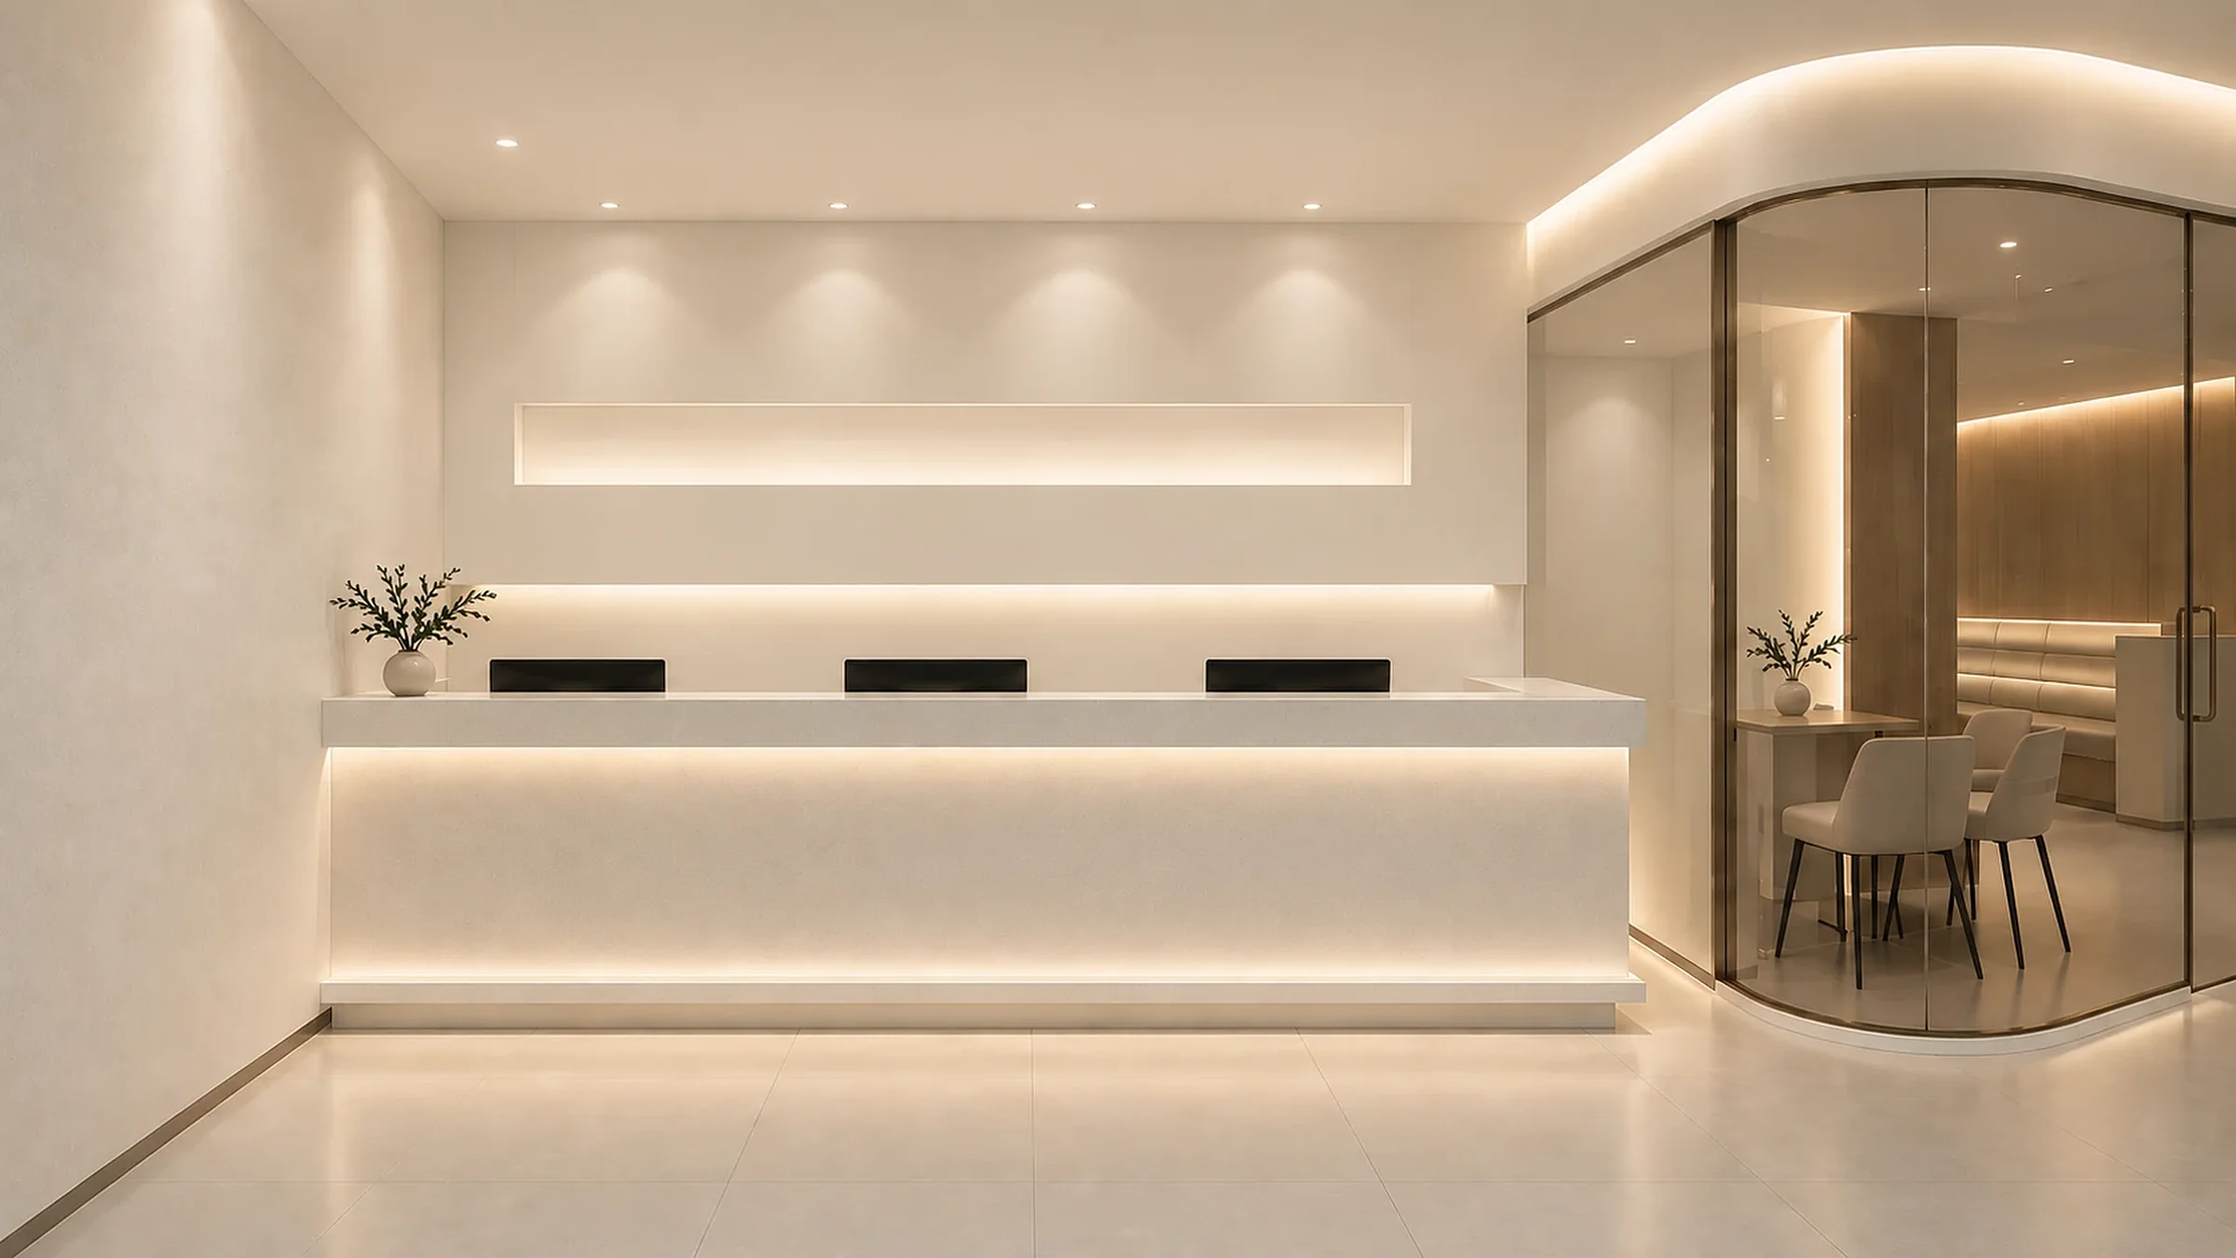
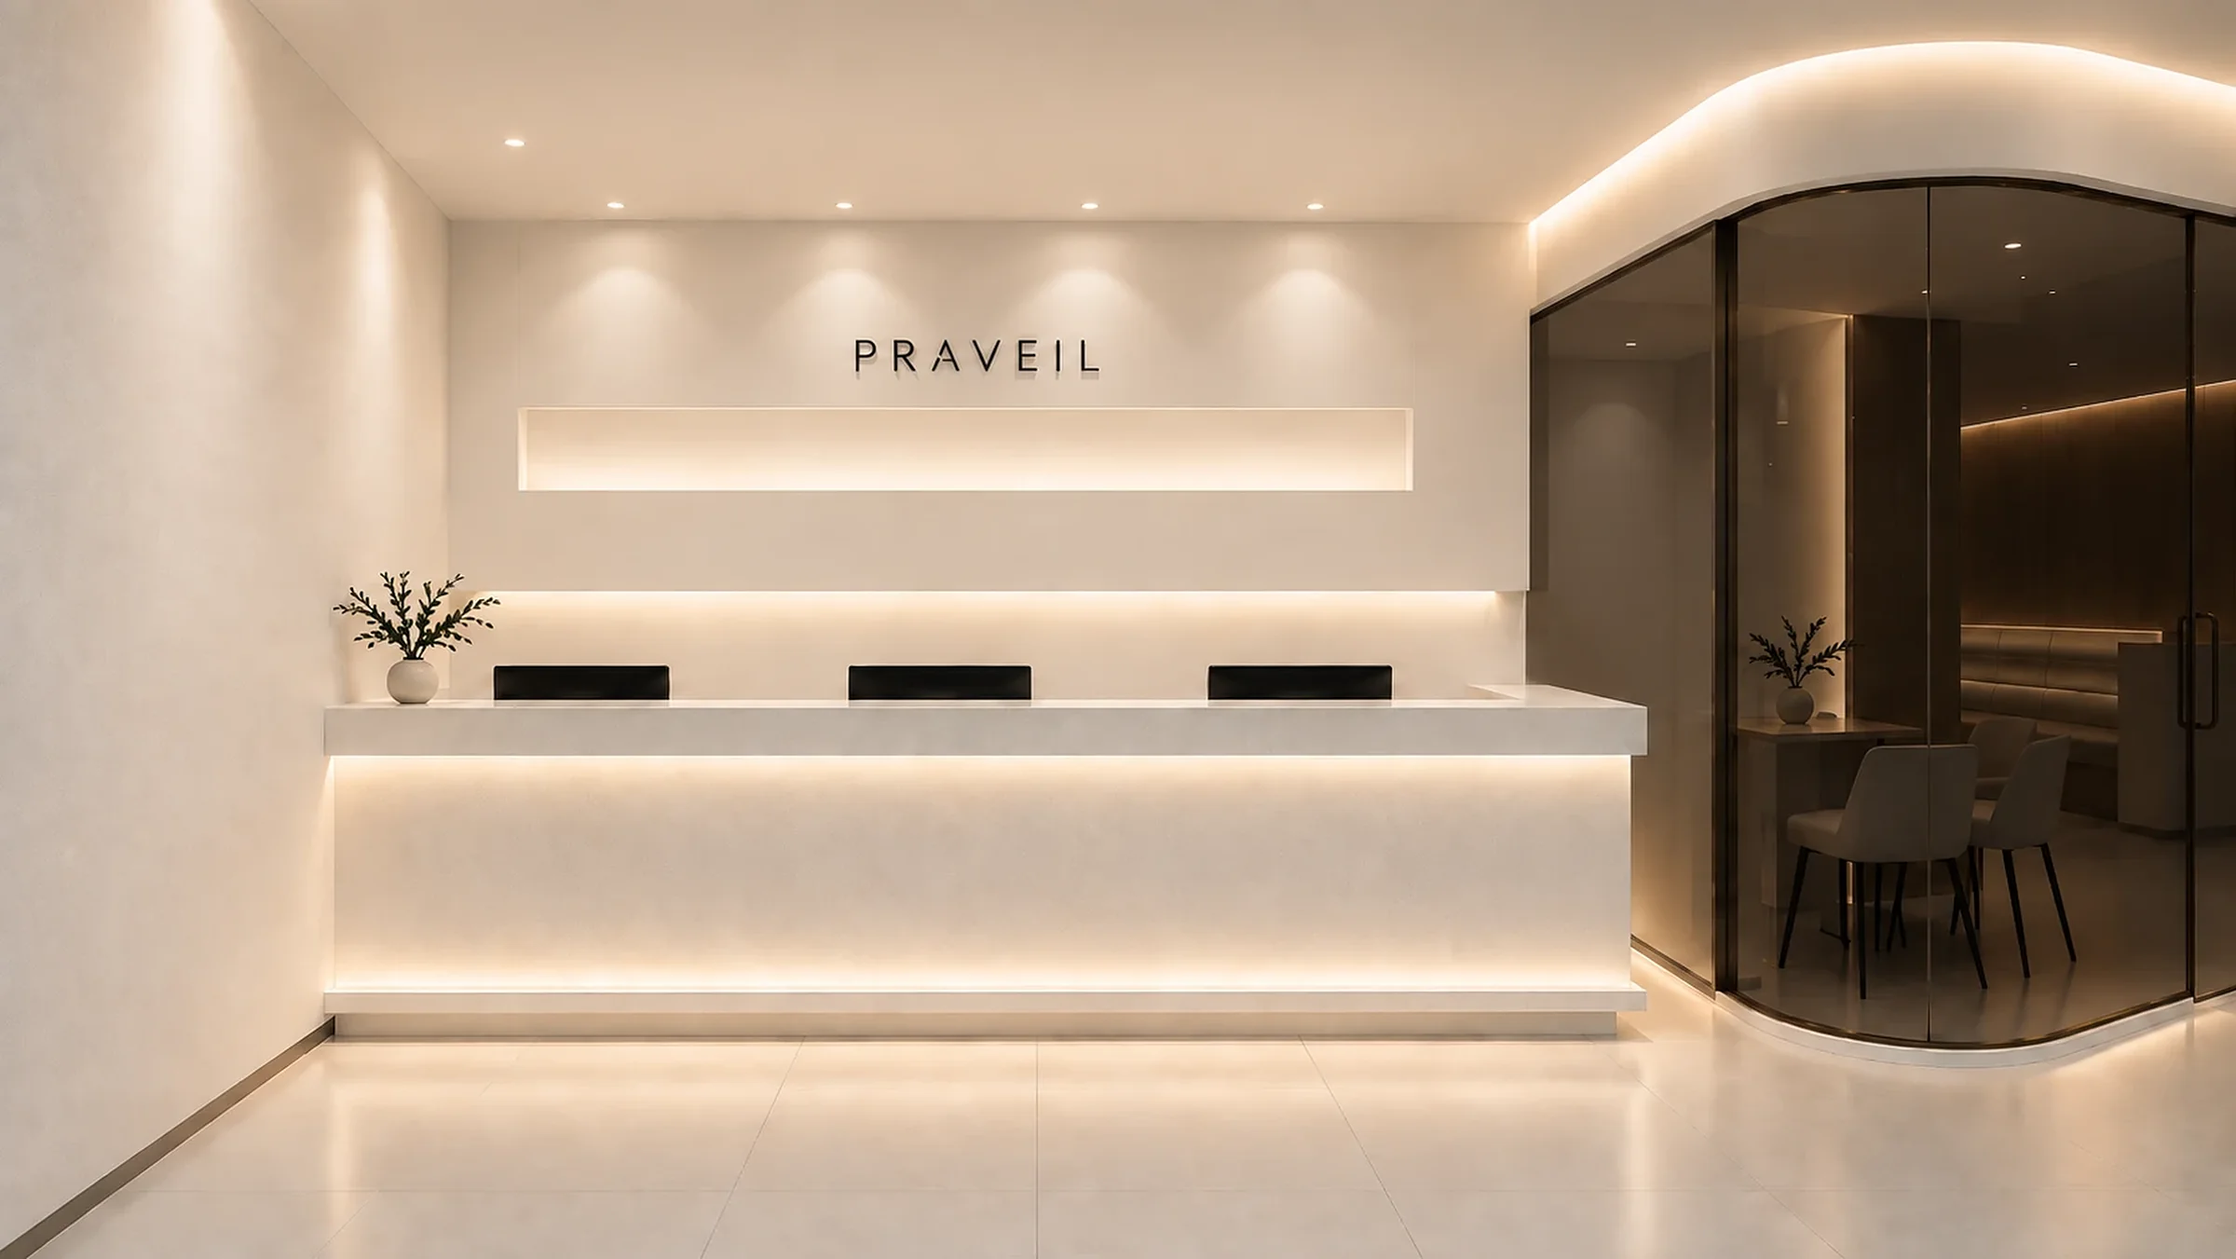
첫 화면: 새 로비 · 상담 사진, 유리 상담실 안으로 걸어 들어가는 전환
- 로비 사진(로고 포함)과 상담 사진을 새 보정본으로 교체, 로고 겹침 제거
- PC · 태블릿: 오른쪽 유리 상담실 쪽으로 몸을 돌려 다가가면, 유리 너머로 상담 장면이 보이고 창이 커지며 화면을 채움
- 모바일: 가운데 아치 문 모양 창이 열리며 상담 장면으로 들어감
- 흐림 + 겹치기 전환 삭제
- 화면 점검용으로 장면 맞춤을 끄는 스위치(window.__noHeroSnap) 추가

Claude-Session: https://claude.ai/code/session_01VQvQAAFwhwRPGFMMMYtpmE

diff --git a/src/components/main/MainHero.tsx b/src/components/main/MainHero.tsx
@@ -1,34 +1,37 @@
 "use client";
 
 import { useEffect, useRef, useState } from "react";
-import { logoShapes } from "@/components/Logo";
 import { gsap, ScrollTrigger, reducedMotion } from "@/lib/gsap";
 
-type Spot = { x: number; y: number; w?: number }; // 사진 속 자리 (사진 기준 비율)
 type Props = {
   eyebrow: string;
   scenes: { title: string[]; sub: string }[];
-  lobby: { src: string; logo: Spot & { w: number }; door: Spot; color: string };
+  lobby: {
+    src: string;
+    width: number;
+    height: number;
+    focusX: number;
+    glass: { x0: number; y0: number; x1: number; y1: number };
+  };
   consult: { src: string };
 };
 
-const LOGO = logoShapes.wordmark; // 영문 PRAVEIL 만
-const [, , VBW, VBH] = LOGO.viewBox.split(" ").map(Number);
-const IMG_W = 2400,
-  IMG_H = 1350; // 로비 사진 크기
 const PAD = 24; // 마우스 따라 움직일 여유 (사진 가장자리가 보이지 않게)
 const POINTS = [0, 0.6, 1]; // 장면이 멈추는 자리 (스크롤 진행 비율)
 
 // 첫 화면: 스크롤하는 만큼 장면이 넘어감 (멈추면 움직이던 방향의 다음 장면으로 맞춰짐)
-// ① 로비, 벽에 로고
-// ② 카메라가 오른쪽 유리 상담실로 다가가다가, 그 안의 원장 상담 장면으로 이어짐
+// ① 로비 (벽에 로고)
+// ② 카메라가 오른쪽 유리 상담실 쪽으로 몸을 돌려 다가감. 유리창 안에 원장 상담 장면이 먼저 보이고,
+//    다가갈수록 그 창이 커져 화면을 가득 채움 (상담실 안으로 들어가는 느낌)
 // ③ 사진이 둥근 카드로 작아지며 다음 섹션(흰 배경)으로
 export default function MainHero({ eyebrow, scenes, lobby, consult }: Props) {
   const rootRef = useRef<HTMLElement>(null);
   const stageRef = useRef<HTMLDivElement>(null);
   const lobbyRef = useRef<HTMLDivElement>(null);
-  const logoRef = useRef<HTMLDivElement>(null);
-  const consultRef = useRef<HTMLDivElement>(null);
+  const shadeRef = useRef<HTMLDivElement>(null);
+  const windowRef = useRef<HTMLDivElement>(null);
+  const consultImgRef = useRef<HTMLImageElement>(null);
+  const glareRef = useRef<HTMLDivElement>(null);
   const copyRefs = useRef<(HTMLDivElement | null)[]>([]);
   const eyebrowRef = useRef<HTMLParagraphElement>(null);
   const [scene, setScene] = useState(0);
@@ -61,33 +64,97 @@ export default function MainHero({ eyebrow, scenes, lobby, consult }: Props) {
 
   useEffect(() => {
     const root = rootRef.current;
-    const logo = logoRef.current;
-    if (!root || !logo) return;
+    const lobbyEl = lobbyRef.current;
+    const win = windowRef.current;
+    if (!root || !lobbyEl || !win) return;
 
-    // 사진이 틀을 덮을 때(object-cover) 사진 속 자리가 틀의 어디인지 (틀은 화면보다 PAD 만큼 큼)
-    const spot = (s: Spot) => {
+    // 사진 틀(화면보다 PAD 만큼 큼) 기준으로, 사진 속 비율 좌표 → 틀 좌표
+    const frame = () => {
       const bw = root.clientWidth + PAD * 2,
         bh = root.clientHeight + PAD * 2;
-      const k = Math.max(bw / IMG_W, bh / IMG_H);
-      const dw = IMG_W * k,
-        dh = IMG_H * k;
-      const ox = (bw - dw) * lobby.logo.x,
+      const k = Math.max(bw / lobby.width, bh / lobby.height);
+      const dw = lobby.width * k,
+        dh = lobby.height * k;
+      const ox = (bw - dw) * lobby.focusX,
         oy = (bh - dh) / 2;
-      return { x: ox + dw * s.x, y: oy + dh * s.y, w: dw * (s.w ?? 0) };
+      const g = lobby.glass;
+      const rect = {
+        x0: ox + dw * g.x0,
+        y0: oy + dh * g.y0,
+        x1: ox + dw * g.x1,
+        y1: oy + dh * g.y1,
+      };
+      // 좁은 화면(모바일)에서는 유리 상담실이 화면 밖이라, 가운데에 문 모양 창을 두고 열림 (옆으로 돌지 않음)
+      const narrow = rect.x0 > bw * 0.9;
+      return {
+        bw,
+        bh,
+        pan: !narrow,
+        rect: narrow
+          ? { x0: bw * 0.26, y0: bh * 0.3, x1: bw * 0.74, y1: bh * 0.7 }
+          : rect,
+      };
     };
-    // 로고는 로비 사진 벽에 붙어 사진과 함께 움직임
-    const placeLogo = () => {
-      const p = spot(lobby.logo);
-      const h = (p.w * VBH) / VBW;
-      gsap.set(logo, { x: p.x - p.w / 2, y: p.y - h / 2, width: p.w });
+
+    // t(0~1)에 따라: 유리창 가운데를 화면 가운데로 돌리며(pan) 확대(s). 창 밖 로비는 어두워지고, 창은 화면을 채울 때까지 커짐
+    let F = frame();
+    const apply = (t: number) => {
+      const { bw, bh, rect, pan } = F;
+      const ox = (rect.x0 + rect.x1) / 2,
+        oy = (rect.y0 + rect.y1) / 2; // 확대 기준 = 유리창 가운데
+      const cx = bw / 2,
+        cy = bh / 2;
+      // 창이 화면을 다 덮는 배율
+      const sEnd =
+        Math.max(bw / (rect.x1 - rect.x0), bh / (rect.y1 - rect.y0)) * 1.08;
+      const e = t < 0.5 ? 2 * t * t : 1 - Math.pow(-2 * t + 2, 2) / 2;
+      const s = 1 + (sEnd - 1) * Math.pow(t, 1.6);
+      const px = pan ? (cx - ox) * e : 0,
+        py = pan ? (cy - oy) * e : 0;
+      lobbyEl.style.transformOrigin = `${ox}px ${oy}px`;
+      lobbyEl.style.transform = `translate(${px}px, ${py}px) scale(${s})`;
+      const map = (x: number, y: number) => [
+        ox + px + (x - ox) * s,
+        oy + py + (y - oy) * s,
+      ];
+      const [x0, y0] = map(rect.x0, rect.y0);
+      const [x1, y1] = map(rect.x1, rect.y1);
+      // 유리창 = 상담실. 창 크기 그대로 상담 사진을 담아, 창이 커지는 만큼 방이 가까워짐 (끝나면 화면 가득)
+      const L = Math.max(0, x0),
+        T = Math.max(0, y0),
+        R = Math.min(bw, x1),
+        B = Math.min(bh, y1);
+      win.style.left = `${L}px`;
+      win.style.top = `${T}px`;
+      win.style.width = `${Math.max(0, R - L)}px`;
+      win.style.height = `${Math.max(0, B - T)}px`;
+      const rad = Math.max(0, 1 - t * 1.2) * 44 * Math.min(s, 2.5);
+      // 모바일은 아치 문 모양 (위쪽 양 모서리 둥글게)
+      win.style.borderRadius = pan
+        ? `${rad}px 0 0 0`
+        : `${(Math.max(0, 1 - t * 1.1) * (R - L)) / 2}px ${(Math.max(0, 1 - t * 1.1) * (R - L)) / 2}px 0 0`;
+      // 안쪽 사진은 창보다 조금 덜 커지게 (깊이감)
+      if (consultImgRef.current)
+        consultImgRef.current.style.transform = `scale(${1.15 - 0.15 * e})`;
+      // 로비 사진 속 유리 너머 공간과 겹치듯 서서히 드러나고, 유리 반사는 들어갈수록 사라짐
+      win.style.opacity = String(Math.min(1, t * 3.2));
+      if (glareRef.current)
+        glareRef.current.style.opacity = String(Math.max(0, 1 - t * 2.2));
+      if (shadeRef.current)
+        shadeRef.current.style.opacity = String(0.55 * Math.min(1, t * 2));
     };
-    placeLogo();
-    ScrollTrigger.addEventListener("refreshInit", placeLogo);
+    const state = { t: 0 };
+    apply(0);
+    const onRefresh = () => {
+      F = frame();
+      apply(state.t);
+    };
+    ScrollTrigger.addEventListener("refreshInit", onRefresh);
+    window.addEventListener("resize", onRefresh);
     if (reducedMotion()) {
-      window.addEventListener("resize", placeLogo);
       return () => {
-        window.removeEventListener("resize", placeLogo);
-        ScrollTrigger.removeEventListener("refreshInit", placeLogo);
+        ScrollTrigger.removeEventListener("refreshInit", onRefresh);
+        window.removeEventListener("resize", onRefresh);
       };
     }
 
@@ -97,7 +164,14 @@ export default function MainHero({ eyebrow, scenes, lobby, consult }: Props) {
       clearTimeout(timer);
       timer = window.setTimeout(() => {
         const p = st.progress;
-        if (!st.isActive || p <= 0 || p >= 1) return;
+        // window.__noHeroSnap: 화면 점검(캡처)용으로 장면 맞춤을 끌 때
+        if (
+          !st.isActive ||
+          p <= 0 ||
+          p >= 1 ||
+          (window as unknown as { __noHeroSnap?: boolean }).__noHeroSnap
+        )
+          return;
         const target =
           st.direction > 0
             ? POINTS.find((v) => v >= p - 0.002)!
@@ -111,7 +185,7 @@ export default function MainHero({ eyebrow, scenes, lobby, consult }: Props) {
         ).__lenis;
         if (lenis)
           lenis.scrollTo(y, {
-            duration: 1.2,
+            duration: 1.4,
             easing: (x: number) => 1 - Math.pow(1 - x, 3),
           });
         else window.scrollTo({ top: y, behavior: "smooth" });
@@ -127,7 +201,7 @@ export default function MainHero({ eyebrow, scenes, lobby, consult }: Props) {
             start: "top top",
             end: "+=220%",
             pin: true,
-            scrub: 0.7,
+            scrub: 0.8,
             invalidateOnRefresh: true,
             onUpdate: (st) => {
               setScene(st.progress < 0.3 ? 0 : 1);
@@ -135,38 +209,14 @@ export default function MainHero({ eyebrow, scenes, lobby, consult }: Props) {
             },
           },
         })
-        // ① → ② 유리 상담실 쪽으로 다가감
-        .fromTo(
-          lobbyRef.current,
-          {
-            scale: 1,
-            filter: "blur(0px)",
-            transformOrigin: () =>
-              `${Math.min(spot(lobby.door).x, root.clientWidth + PAD)}px ${spot(lobby.door).y}px`,
-          },
-          { scale: 2.6, duration: 0.55, ease: "power1.in" },
-          0,
-        )
-        .to(lobbyRef.current, { filter: "blur(6px)", duration: 0.2 }, 0.35)
-        // 상담실 안 장면이 겹쳐지며 드러남
-        .fromTo(
-          consultRef.current,
-          { opacity: 0, scale: 1.18, filter: "blur(10px)" },
-          {
-            opacity: 1,
-            scale: 1,
-            filter: "blur(0px)",
-            duration: 0.25,
-            ease: "power2.out",
-          },
-          0.33,
-        )
+        // ① → ② 유리 상담실 안으로
+        .to(state, { t: 1, duration: 0.6, onUpdate: () => apply(state.t) }, 0)
         .to(copyRefs.current[0], { opacity: 0, y: -40, duration: 0.15 }, 0.05)
         .fromTo(
           copyRefs.current[1],
           { opacity: 0, y: 40 },
           { opacity: 1, y: 0, duration: 0.15 },
-          0.42,
+          0.45,
         )
         // ② → ③ 둥근 카드로 작아지며 다음 섹션으로
         .fromTo(
@@ -188,7 +238,8 @@ export default function MainHero({ eyebrow, scenes, lobby, consult }: Props) {
     ScrollTrigger.refresh();
     return () => {
       clearTimeout(timer);
-      ScrollTrigger.removeEventListener("refreshInit", placeLogo);
+      ScrollTrigger.removeEventListener("refreshInit", onRefresh);
+      window.removeEventListener("resize", onRefresh);
       ctx.revert();
     };
   }, [lobby]);
@@ -203,7 +254,7 @@ export default function MainHero({ eyebrow, scenes, lobby, consult }: Props) {
       >
         <div
           ref={stageRef}
-          className="absolute inset-0 overflow-hidden bg-[#2a241e]"
+          className="absolute inset-0 overflow-hidden bg-[#cbbfae]"
         >
           {/* 처음엔 크게 시작해 제자리로 */}
           <div className="absolute inset-0 animate-[hero-in_2.2s_cubic-bezier(.22,1,.36,1)_both]">
@@ -214,7 +265,7 @@ export default function MainHero({ eyebrow, scenes, lobby, consult }: Props) {
                   "calc(var(--mx, 0) * -14px) calc(var(--my, 0) * -10px)",
               }}
             >
-              {/* 로비 + 벽의 로고 */}
+              {/* 로비 (로고는 사진 속 벽에 있음) */}
               <div
                 ref={lobbyRef}
                 className="absolute inset-0 will-change-transform"
@@ -224,60 +275,30 @@ export default function MainHero({ eyebrow, scenes, lobby, consult }: Props) {
                   src={lobby.src}
                   alt="프라베일 로비"
                   className="h-full w-full object-cover"
-                  style={{ objectPosition: `${lobby.logo.x * 100}% 50%` }}
+                  style={{ objectPosition: `${lobby.focusX * 100}% 50%` }}
                 />
                 <div
-                  ref={logoRef}
-                  className="absolute top-0 left-0"
-                  style={{ color: lobby.color }}
-                >
-                  <svg
-                    viewBox={LOGO.viewBox}
-                    role="img"
-                    aria-label="PRAVEIL 프라베일 맑고고운의원"
-                    className="block h-auto w-full drop-shadow-[0_1px_1px_rgba(255,248,236,0.6)]"
-                  >
-                    <defs>
-                      {/* 처음 한 번 로고 위로 빛이 지나감 */}
-                      <linearGradient
-                        id="hero-logo-shine"
-                        x1="0"
-                        y1="0"
-                        x2="1"
-                        y2="0.35"
-                      >
-                        <stop offset="0" stopColor="currentColor" />
-                        <stop offset="0.42" stopColor="currentColor" />
-                        <stop offset="0.5" stopColor="#fff3dc" />
-                        <stop offset="0.58" stopColor="currentColor" />
-                        <stop offset="1" stopColor="currentColor" />
-                        <animateTransform
-                          attributeName="gradientTransform"
-                          type="translate"
-                          from="-1.2 0"
-                          to="1.2 0"
-                          begin="1.4s"
-                          dur="1.8s"
-                          fill="freeze"
-                        />
-                      </linearGradient>
-                    </defs>
-                    <path
-                      d={LOGO.d}
-                      fill="url(#hero-logo-shine)"
-                      fillRule="evenodd"
-                    />
-                  </svg>
-                </div>
+                  ref={shadeRef}
+                  className="absolute inset-0 bg-[#1f1914] opacity-0"
+                />
               </div>
 
-              {/* 상담 장면 */}
-              <div ref={consultRef} className="absolute inset-0 opacity-0">
+              {/* 유리창 속 상담 장면 → 화면 가득 */}
+              <div
+                ref={windowRef}
+                className="absolute top-0 left-0 overflow-hidden opacity-0"
+              >
                 {/* eslint-disable-next-line @next/next/no-img-element */}
                 <img
+                  ref={consultImgRef}
                   src={consult.src}
                   alt="대표원장 1:1 상담"
-                  className="h-full w-full object-cover object-[58%_40%]"
+                  className="h-full w-full object-cover object-[55%_40%] will-change-transform"
+                />
+                {/* 유리 반사 · 테두리 (들어갈수록 사라짐) */}
+                <div
+                  ref={glareRef}
+                  className="pointer-events-none absolute inset-0 bg-[linear-gradient(115deg,rgba(255,244,226,0.28),transparent_35%,transparent_60%,rgba(255,244,226,0.12))] shadow-[inset_0_0_0_1px_rgba(255,240,215,0.45)]"
                 />
               </div>
             </div>

diff --git a/src/content/main.ts b/src/content/main.ts
@@ -1,15 +1,16 @@
 // 메인 페이지 문구 (2026.10 리뉴얼). 원장님 검토 후 확정.
 const photo = (name: string) => `/images/photos/${name}.webp`;
 
-// 첫 화면: 스크롤에 따라 로비 → (유리 상담실로 다가감) → 원장 상담 장면
-// logo: 사진 속 로고 자리, door: 다가갈 유리 상담실 자리 (사진 기준 비율 x, y, 폭)
+// 첫 화면: 스크롤에 따라 로비 → (유리 상담실 안으로 들어감) → 원장 상담 장면
+// focusX: 좁은 화면에서 사진을 어디 기준으로 자를지 (로고가 보이게)
+// glass: 유리 상담실 자리 (사진 기준 비율). 상담 장면이 이 유리창 안에서 먼저 보이다가 화면 가득 커짐
 export const mainHero = {
   eyebrow: "Praveil Clinic",
   scenes: [
     { title: ["오직 당신만을 위한", "단 하나의 계획"], sub: "대표원장 책임 진료 시스템" },
     { title: ["처음 상담부터 마지막 관리까지,", "대표원장이 직접 책임집니다."], sub: "1:1 맞춤 상담" },
   ],
-  lobby: { src: photo("hero-lobby"), logo: { x: 0.43, y: 0.225, w: 0.15 }, door: { x: 0.84, y: 0.6 }, color: "#7a5c3a" },
+  lobby: { src: photo("hero-lobby"), width: 2400, height: 1351, focusX: 0.45, glass: { x0: 0.775, y0: 0.15, x1: 1.12, y1: 0.83 } },
   consult: { src: photo("hero-consult") },
 };
 
